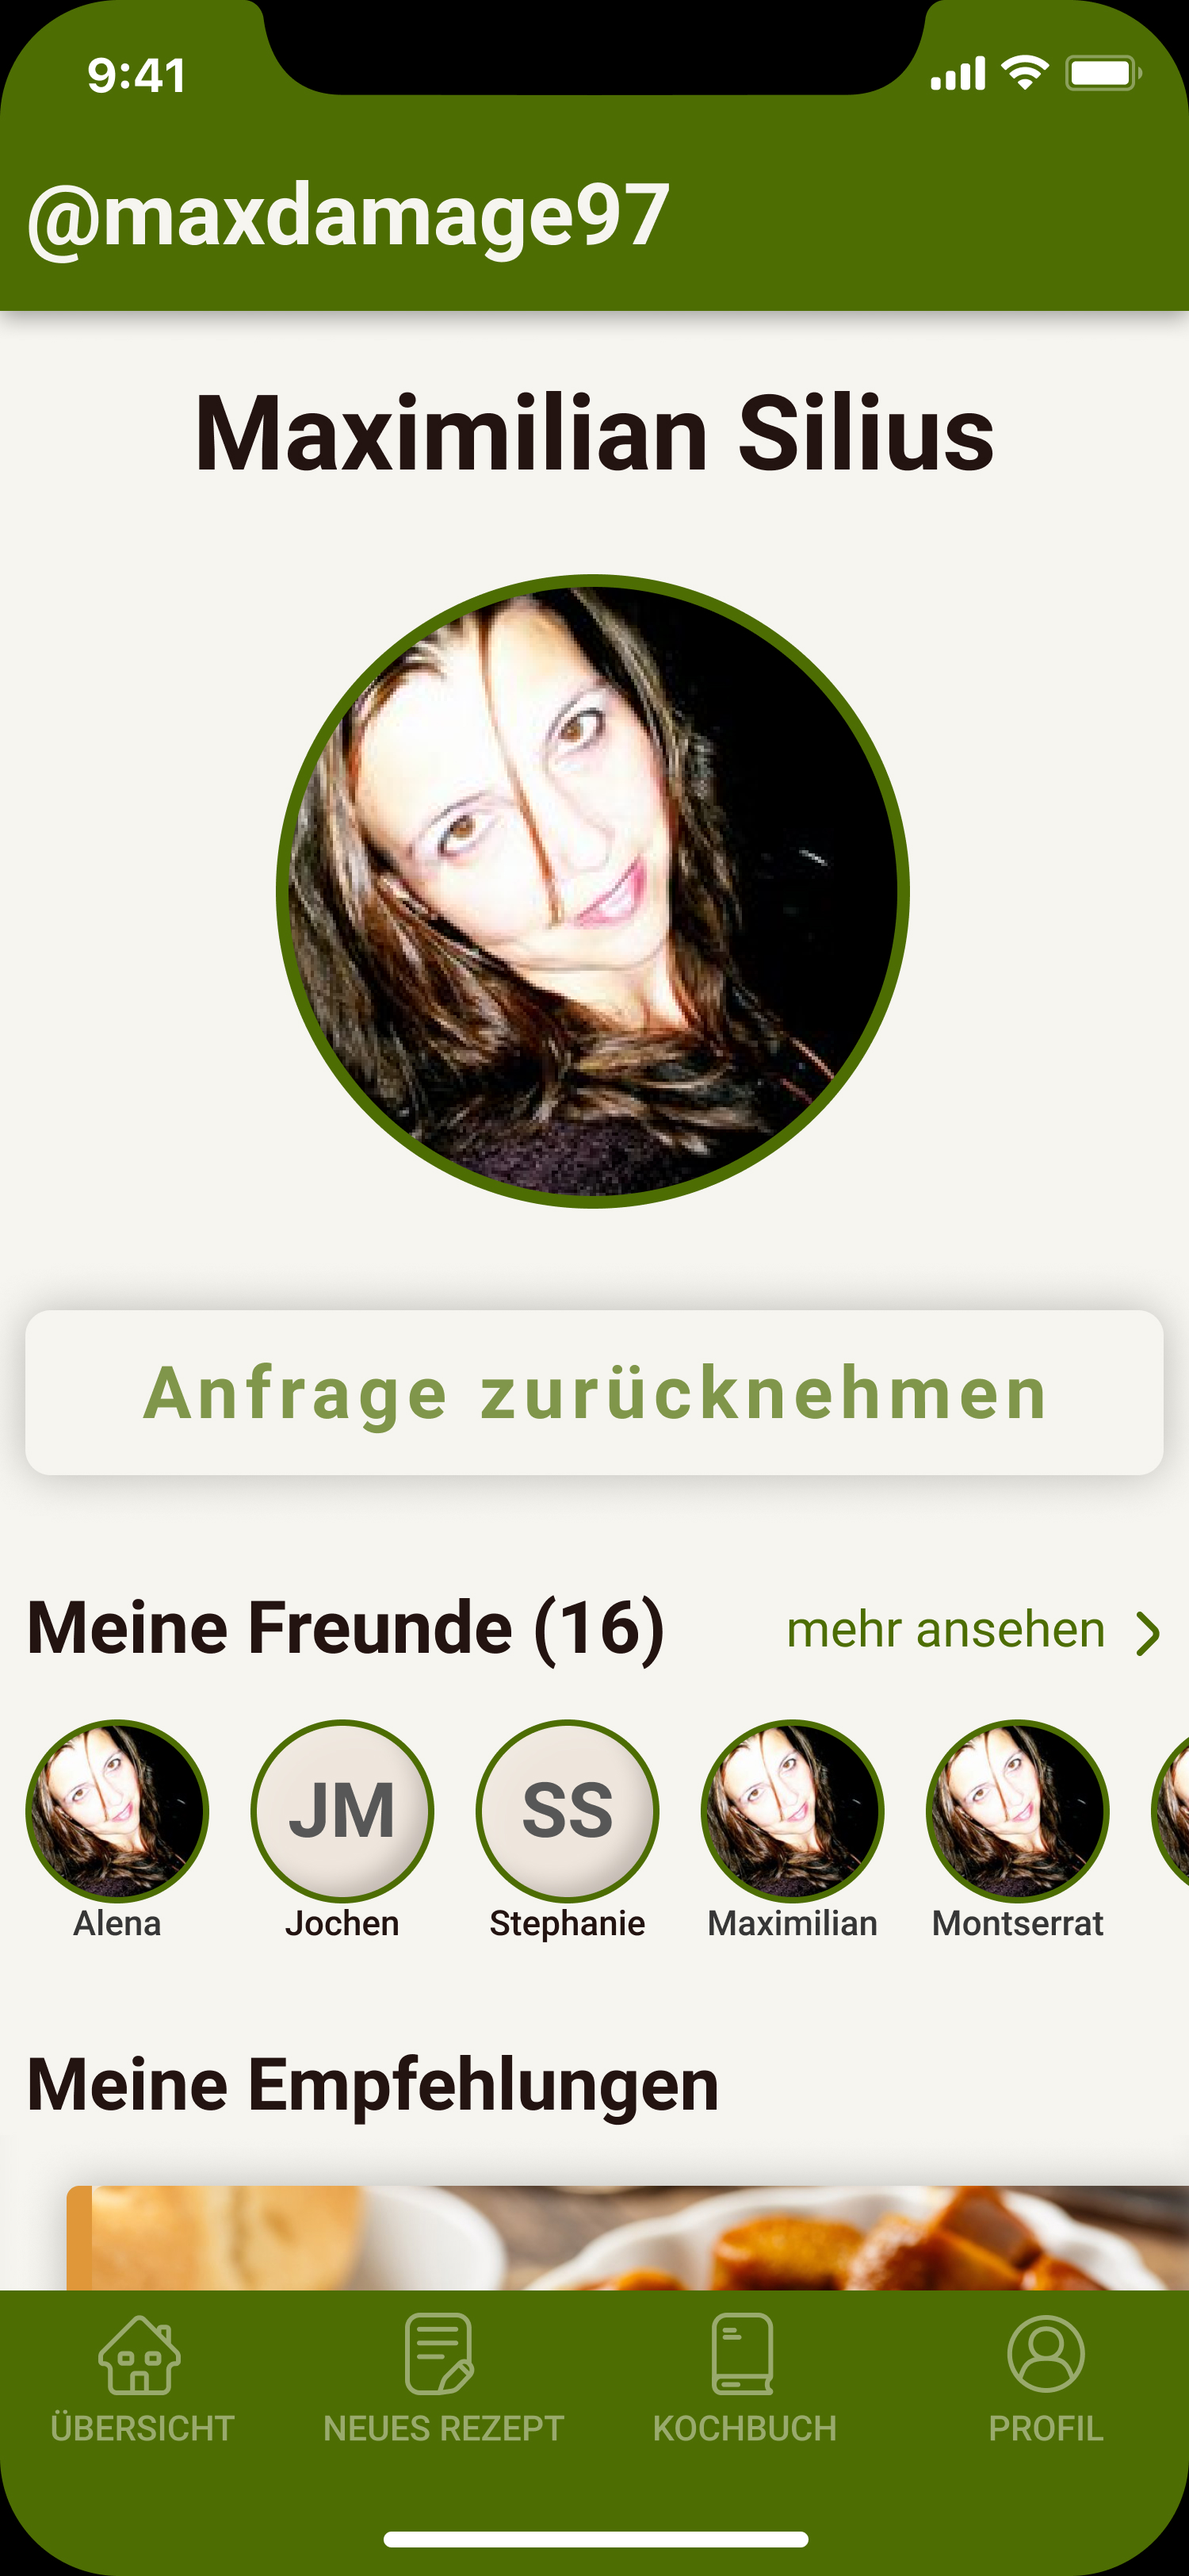
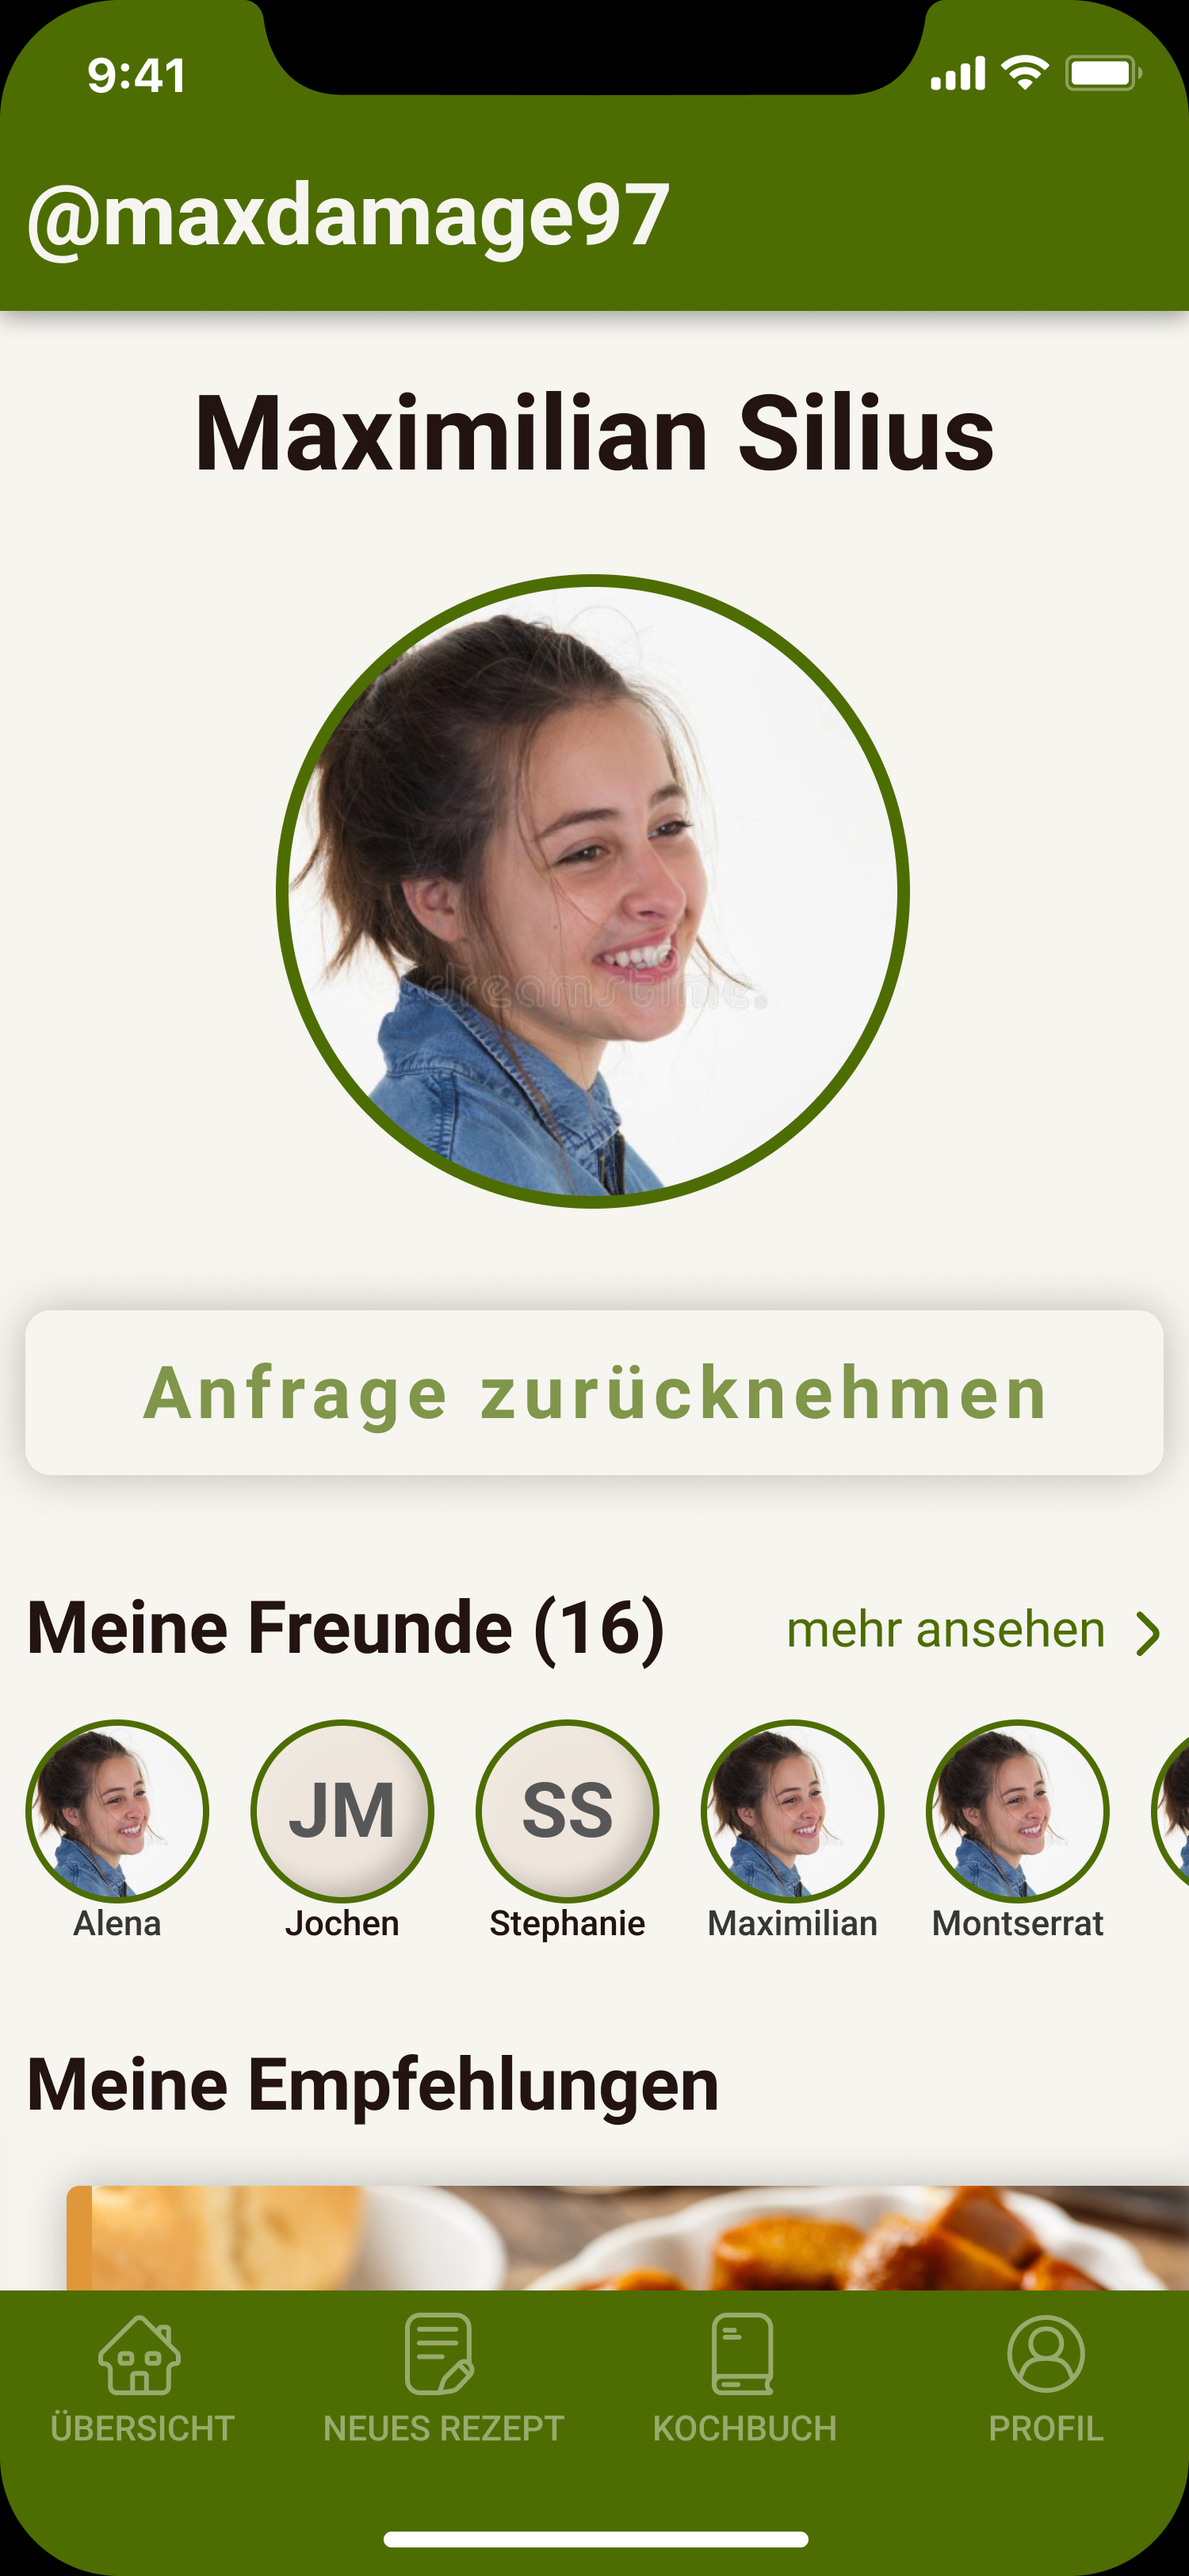
[TASK] Change out profile images to stock image

diff --git a/Artefakte/Zeiterfassung/Arbeitsmatrix.md b/Artefakte/Zeiterfassung/Arbeitsmatrix.md
@@ -141,9 +141,9 @@
 | 22       | Interface Design                    | MockUps                                           | [FEATURE]       | Einführungsscreens                                               | 25.09.21        | 12.10.21            |                 | 1,25            |
 | 22       | Interface Design                    | MockUps                                           | [FEATURE]       | Einstellungsicons                                                | 25.09.21        | 12.10.21            |                 | 0,50            |
 | 22       | Interface Design                    | MockUps                                           | [FEATURE]       | Einführungskommentare                                            | 25.09.21        | 12.10.21            |                 | 0,50            |
+| 22       | Interface Design                    | MockUps                                           | [TASK]          | Bilder austauschen                                               | 25.09.21        | 12.10.21            |                 | 0,25            |
 |          |                                     |                                                   |                 |                                                                  |                 |                     |                 |                 |
-|          |                                     |                                                   |                 |                                                                  |                 |                     |                 |                 |
-|          | Stunden insgesamt                   | 305                                               | Stunden Seminar | 55                                                               | Stunden Projekt | 250                 |                 |                 |
-|          |                                     |                                                   | Budget:         | 80                                                               | Budget:         | 65                  |                 |                 |
+|          | Stunden insgesamt                   | 305,25                                            | Stunden Seminar | 55                                                               | Stunden Projekt | 250,25              |                 |                 |
+|          |                                     |                                                   | Budget:         | 80                                                               | Budget:         | 64,75               |                 |                 |
 |          | Kredits erreicht:                   | 11                                                |                 |                                                                  |                 |                     |                 |                 |
 |          | Kredits erfordert:                  | 15                                                |
